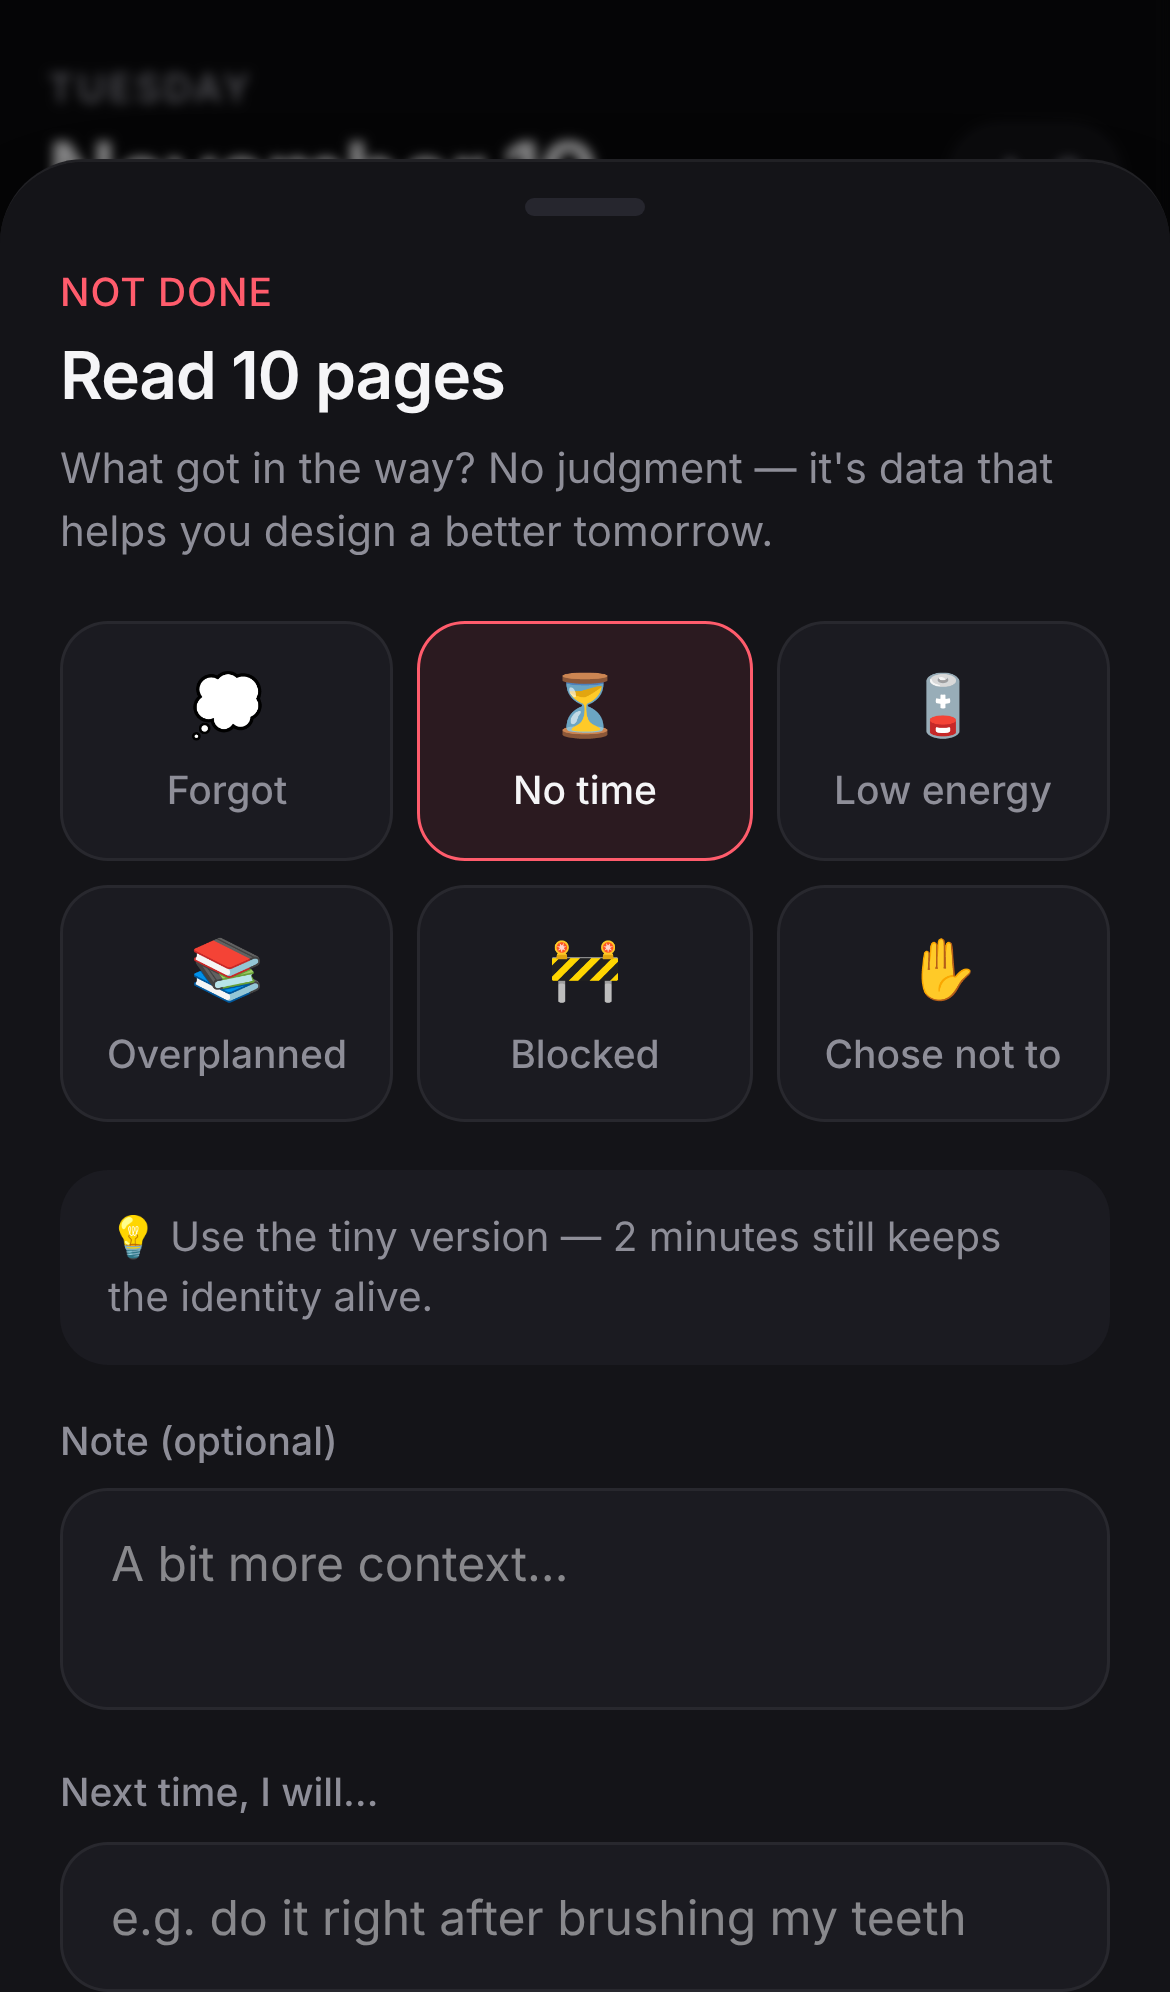
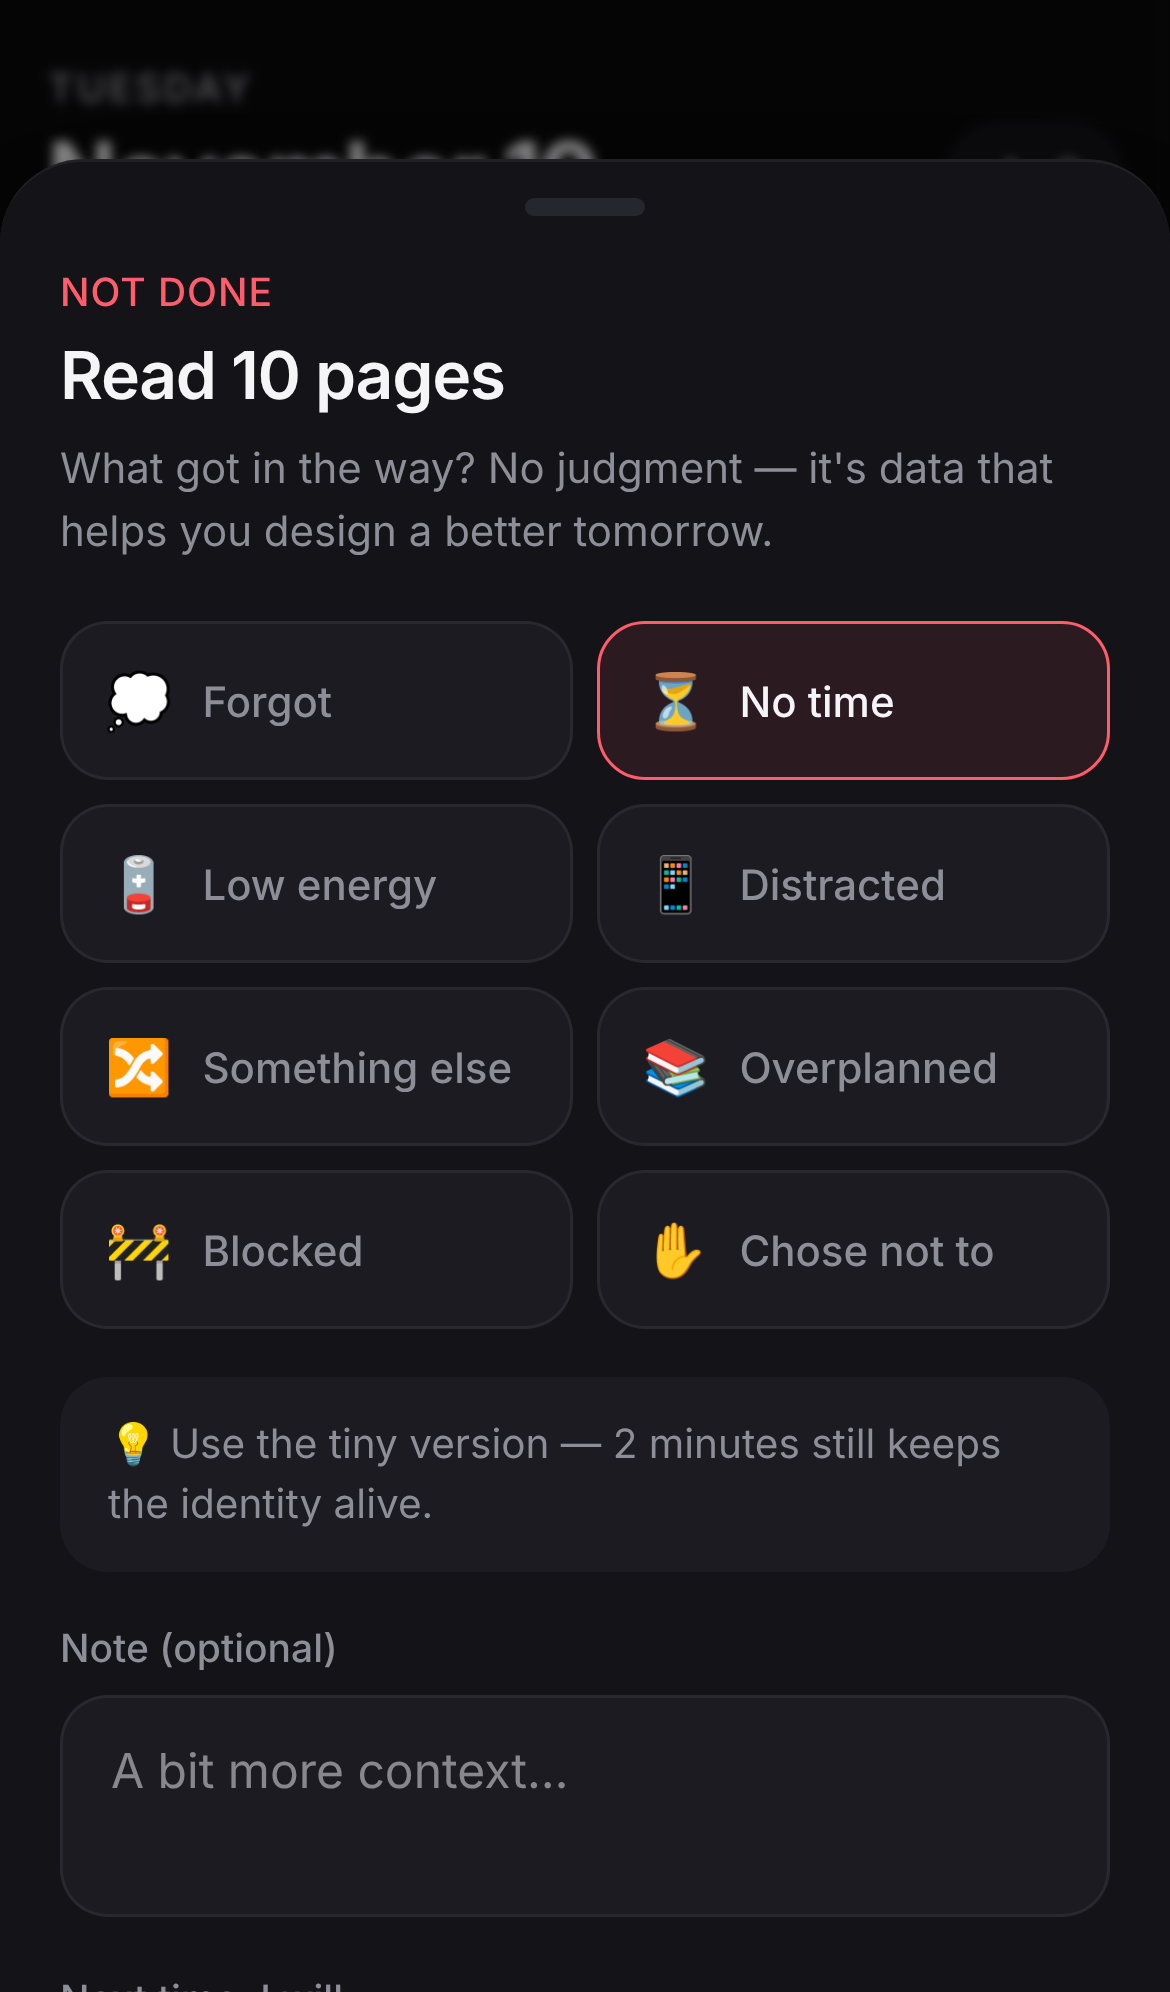
Add Distracted and Something-else miss reasons
Reason picker now uses a two-column layout to fit eight reasons.

Claude-Session: https://claude.ai/code/session_013Kc9N2CCjanKvdbs8DEgGc

diff --git a/src/lib/reasons.ts b/src/lib/reasons.ts
@@ -4,6 +4,8 @@ export const REASONS: { code: ReasonCode; label: string; emoji: string }[] = [
   { code: 'forgot', label: 'Forgot', emoji: '💭' },
   { code: 'no_time', label: 'No time', emoji: '⏳' },
   { code: 'low_energy', label: 'Low energy', emoji: '🪫' },
+  { code: 'distracted', label: 'Distracted', emoji: '📱' },
+  { code: 'other_priority', label: 'Something else', emoji: '🔀' },
   { code: 'overplanned', label: 'Overplanned', emoji: '📚' },
   { code: 'blocked', label: 'Blocked', emoji: '🚧' },
   { code: 'chose_not', label: 'Chose not to', emoji: '✋' },
@@ -17,6 +19,8 @@ export const REASON_TIPS: Record<ReasonCode, string> = {
   forgot: 'Anchor it to something you already do: "After I…, I will…".',
   no_time: 'Use the tiny version — 2 minutes still keeps the identity alive.',
   low_energy: 'Schedule it for your high-energy window, or shrink it.',
+  distracted: 'Remove the temptation first — phone in another room, one tab open.',
+  other_priority: 'If something else keeps winning, plan it explicitly — or ask if this still matters.',
   overplanned: 'Plan fewer things. 3 must-dos beats 10 maybes.',
   blocked: 'Write down the first concrete step to unblock it.',
   chose_not: 'Fine — but if this keeps happening, is it still a priority?',

diff --git a/src/components/ReasonSheet.tsx b/src/components/ReasonSheet.tsx
@@ -58,7 +58,7 @@ export function ReasonSheet() {
       <h2 className="text-[22px] leading-tight font-semibold tracking-[-0.02em]">{title}</h2>
       <p className="mt-1.5 text-[14px] text-muted">What got in the way? No judgment — it's data that helps you design a better tomorrow.</p>
 
-      <div className="mt-5 grid grid-cols-3 gap-2">
+      <div className="mt-5 grid grid-cols-2 gap-2">
         {REASONS.map((r) => {
           const active = reason === r.code;
           return (
@@ -66,11 +66,11 @@ export function ReasonSheet() {
               key={r.code}
               whileTap={{ scale: 0.94 }}
               onClick={() => setReason(r.code)}
-              className={`flex flex-col items-center gap-1 rounded-2xl border px-2 py-3 text-[13px] font-medium transition-colors ${
+              className={`flex items-center gap-2.5 rounded-2xl border px-3.5 py-3 text-left text-[14px] font-medium transition-colors ${
                 active ? 'border-miss bg-miss/10 text-text' : 'border-line bg-surface-2 text-muted'
               }`}
             >
-              <span className="text-[20px]">{r.emoji}</span>
+              <span className="text-[18px]">{r.emoji}</span>
               {r.label}
             </motion.button>
           );

diff --git a/src/types.ts b/src/types.ts
@@ -2,6 +2,8 @@ export type ReasonCode =
   | 'forgot'
   | 'no_time'
   | 'low_energy'
+  | 'distracted'
+  | 'other_priority'
   | 'overplanned'
   | 'blocked'
   | 'chose_not';

diff --git a/README.md b/README.md
@@ -6,7 +6,7 @@ A mobile-first habit tracker built around accountability: daily **habits** (non-
 
 - **Two rings + efficacy score** — Habits (left) and Plans (right), combined 50/50 into a daily efficacy %.
 - **Tick or cross** — tap the circle or swipe right to complete; tap × or swipe left to log a miss.
-- **Reasons for every miss** — one-tap reasons (Forgot, No time, Low energy, Overplanned, Blocked, Chose not to), optional note, and a "Next time, I will…" coping plan that can become the habit's new trigger.
+- **Reasons for every miss** — one-tap reasons (Forgot, No time, Low energy, Distracted, Something else, Overplanned, Blocked, Chose not to), optional note, and a "Next time, I will…" coping plan that can become the habit's new trigger.
 - **Plan tomorrow tonight** — evening ritual screen with max-3 must-dos and a planning-fallacy warning when you plan more than you usually finish.
 - **Carry over plans** — undone plans can move forward (still needs a reason); a "moved N×" counter exposes procrastination.
 - **Strict streaks** — the streak only grows on days you complete *every* habit.
